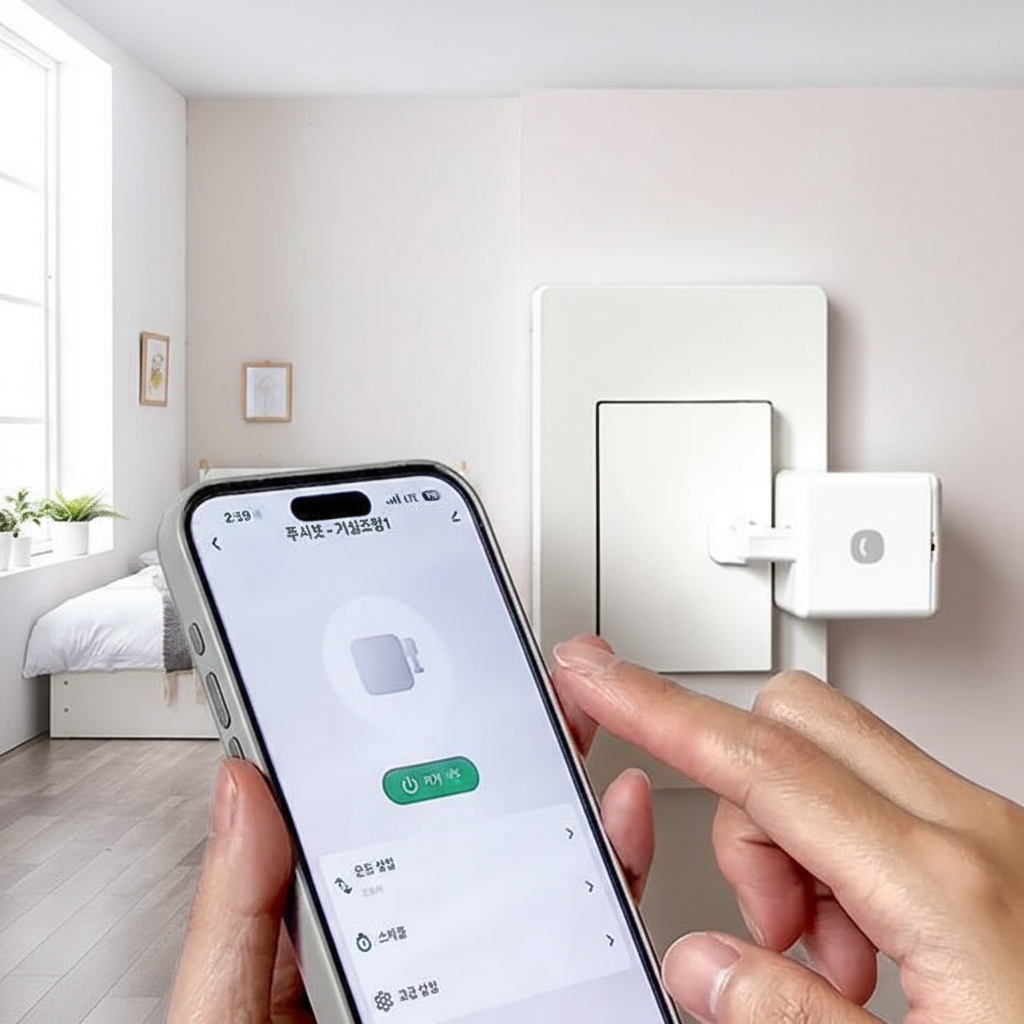
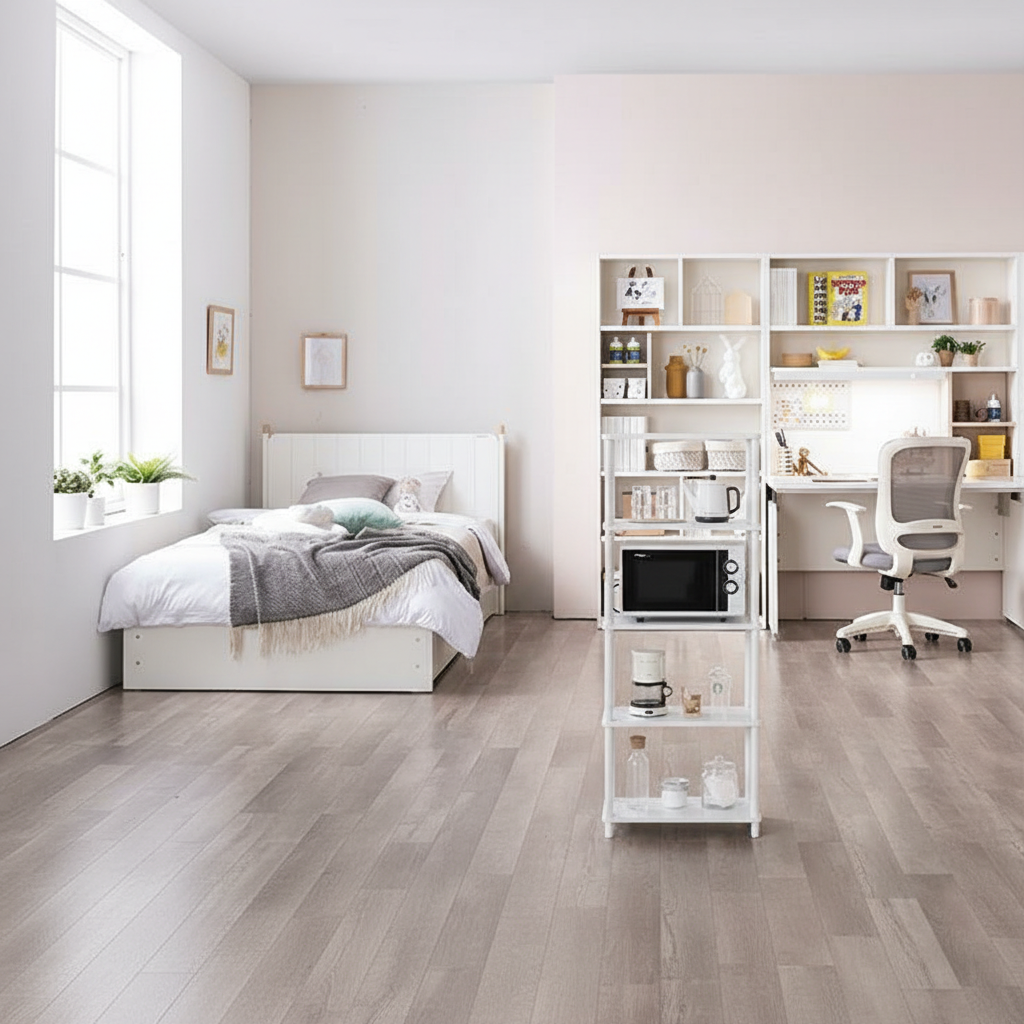
fine tuning

diff --git a/app/api/routes/ai_interior.py b/app/api/routes/ai_interior.py
@@ -25,6 +25,113 @@ import re
 router = APIRouter()
 
 
+def infer_product_placement_type(product_name: str) -> str:
+    """
+    상품명으로부터 배치 유형을 추론
+
+    Args:
+        product_name: 상품명
+
+    Returns:
+        "wall": 벽걸이/벽부착 상품
+        "floor": 바닥에 놓는 상품
+        "table": 테이블/가구 위에 올리는 상품
+        "any": 어디에나 가능
+    """
+    name_lower = product_name.lower()
+
+    # 벽걸이 키워드
+    wall_keywords = [
+        '벽걸이', '벽시계', '액자', '그림', '거울', '미러', '벽선반', '벽 선반',
+        '스위치', '벽등', '벽조명', '월', 'wall', '벽부착', '벽면',
+        '벽걸이형', '월클락', '월미러', '월선반'
+    ]
+
+    # 바닥 가구 키워드
+    floor_keywords = [
+        '책장', '옷장', '수납장', '책상', '테이블', '의자', '소파', '침대',
+        '서랍장', '행거', '옷걸이', '선반장', '캐비닛', '콘솔', '화분대',
+        '스탠드', '조명스탠드', '장롱', '붙박이', '수납박스', '바구니',
+        '가구', 'furniture', '3단', '4단', '5단', '다단', '다용도수납'
+    ]
+
+    # 탁상 소품 키워드
+    table_keywords = [
+        '탁상', '데스크', '미니', '소형', '컵', '홀더', '정리함', '펜꽂이',
+        '시계', '액자', '화분', '캔들', '향초', '디퓨저', '소품', '장식',
+        '오브제', '피규어', '인형', '쿠션', '쿠션커버'
+    ]
+
+    # 우선순위: 벽걸이 > 바닥 > 탁상
+    for keyword in wall_keywords:
+        if keyword in name_lower:
+            return "wall"
+
+    for keyword in floor_keywords:
+        if keyword in name_lower:
+            return "floor"
+
+    for keyword in table_keywords:
+        if keyword in name_lower:
+            return "table"
+
+    return "any"
+
+
+def calculate_spatial_suitability_score(
+    placement_surface: str,
+    product_placement_type: str
+) -> float:
+    """
+    공간 적합성 점수 계산
+
+    Args:
+        placement_surface: Gemini가 분석한 공간 유형 ("wall", "floor", "ceiling", "furniture_surface")
+        product_placement_type: 상품 배치 유형 ("wall", "floor", "table", "any")
+
+    Returns:
+        0.0 ~ 1.0 점수 (1.0 = 완벽히 적합, 0.0 = 전혀 부적합)
+    """
+    # 완벽한 매칭
+    perfect_match = {
+        ("wall", "wall"): 1.0,
+        ("floor", "floor"): 1.0,
+        ("furniture_surface", "table"): 1.0,
+    }
+
+    # 적절한 매칭
+    good_match = {
+        ("floor", "table"): 0.7,  # 바닥에 탁상 소품도 괜찮음 (작은 가구처럼)
+        ("furniture_surface", "any"): 0.8,
+    }
+
+    # 부적합한 매칭
+    poor_match = {
+        ("wall", "floor"): 0.1,  # 벽면에 바닥 가구 = 매우 부적합
+        ("wall", "table"): 0.3,  # 벽면에 탁상 소품 = 부적합 (벽선반이 아닌 이상)
+        ("floor", "wall"): 0.2,  # 바닥에 벽걸이 = 매우 부적합
+        ("ceiling", "floor"): 0.0,  # 천장에 바닥 가구 = 불가능
+        ("ceiling", "wall"): 0.0,  # 천장에 벽걸이 = 불가능
+    }
+
+    # any는 어디에나 가능
+    if product_placement_type == "any":
+        return 0.8
+
+    # 매칭 테이블에서 점수 찾기
+    key = (placement_surface, product_placement_type)
+
+    if key in perfect_match:
+        return perfect_match[key]
+    elif key in good_match:
+        return good_match[key]
+    elif key in poor_match:
+        return poor_match[key]
+    else:
+        # 정의되지 않은 조합은 중립
+        return 0.5
+
+
 def calculate_keyword_match_score(product_name: str, gemini_keywords: List[str]) -> float:
     """
     상품 이름과 Gemini 추천 키워드 간의 매칭 점수 계산
@@ -516,9 +623,12 @@ async def generate_ai_interior(
             method='weighted'
         )
 
-        # 10. Gemini 추천 키워드 기반 재순위화
+        # 10. Gemini 추천 키워드 + 공간 적합성 기반 재순위화
         gemini_keywords = gemini_result.get('recommendations', [])
+        placement_surface = gemini_result.get('placement_surface', 'floor')  # 공간 유형
+
         print(f"🔍 Gemini 키워드 매칭 중... (키워드: {gemini_keywords})")
+        print(f"📍 공간 유형: {placement_surface}")
 
         for product in ranked_products:
             # 키워드 매칭 점수 계산
@@ -527,17 +637,27 @@ async def generate_ai_interior(
                 gemini_keywords=gemini_keywords
             )
 
-            # 무드 점수와 키워드 점수 결합 (무드 60%, 키워드 40%)
+            # 공간 적합성 점수 계산
+            product_placement_type = infer_product_placement_type(product['name'])
+            spatial_score = calculate_spatial_suitability_score(
+                placement_surface=placement_surface,
+                product_placement_type=product_placement_type
+            )
+
+            # 무드 점수 + 키워드 점수 + 공간 적합성 점수 결합
+            # (무드 50%, 키워드 10%, 공간적합성 40%)
             mood_score = product['match_score']
-            combined_score = mood_score * 0.6 + keyword_score * 0.4
+            combined_score = mood_score * 0.5 + keyword_score * 0.1 + spatial_score * 0.4
 
             # 점수 업데이트
             product['keyword_match_score'] = keyword_score
+            product['spatial_suitability_score'] = spatial_score
+            product['product_placement_type'] = product_placement_type
             product['original_mood_score'] = mood_score
             product['match_score'] = combined_score
 
             print(f"   {product['name'][:50]}")
-            print(f"      무드: {mood_score:.3f} | 키워드: {keyword_score:.3f} | 최종: {combined_score:.3f}")
+            print(f"      무드: {mood_score:.3f} | 키워드: {keyword_score:.3f} | 공간: {spatial_score:.3f} ({product_placement_type}) | 최종: {combined_score:.3f}")
 
         # 최종 점수로 재정렬
         ranked_products.sort(key=lambda x: x['match_score'], reverse=True)
@@ -560,9 +680,11 @@ async def generate_ai_interior(
                 product_thumbnail_url=product.get('image_url', '')
             )
 
-            # match_details에 키워드 점수 추가
+            # match_details에 모든 점수 추가
             match_details = product['match_details'].copy()
             match_details['keyword_match_score'] = product['keyword_match_score']
+            match_details['spatial_suitability_score'] = product['spatial_suitability_score']
+            match_details['product_placement_type'] = product['product_placement_type']
             match_details['original_mood_score'] = product['original_mood_score']
 
             recommended_products_with_simulation.append({
@@ -591,7 +713,8 @@ async def generate_ai_interior(
                 'category': gemini_result['category'],
                 'confidence': gemini_result['confidence'],
                 'description': gemini_result['description'],
-                'gemini_recommendations': gemini_result['recommendations']
+                'gemini_recommendations': gemini_result['recommendations'],
+                'placement_surface': gemini_result.get('placement_surface', 'floor')
             },
             background_mood={
                 'primary_style': bg_style['primary_keyword'],

diff --git a/test_coordinate_verification.py b/test_coordinate_verification.py
@@ -1,0 +1,97 @@
+"""
+좌표 변환 검증 스크립트
+Frontend 좌표계 vs OpenCV 좌표계
+"""
+import cv2
+import numpy as np
+
+# 테스트 이미지
+image_path = "test_image2.png"
+
+# 사용자가 준 좌표 (Frontend 좌표계)
+x_relative = 0.7215782000661312
+y_relative = 0.44191157878357606
+radius_relative = 0.09512911389498678
+
+# 이미지 읽기
+img = cv2.imread(image_path)
+if img is None:
+    print(f"❌ 이미지를 읽을 수 없습니다: {image_path}")
+    exit(1)
+
+height, width = img.shape[:2]
+print(f"📐 이미지 크기: {width}x{height}")
+print()
+
+# 좌표 변환
+center_x = int(round(x_relative * width))
+center_y = int(round((1.0 - y_relative) * height))  # Y축 반전
+radius = int(round(radius_relative * width))
+
+print(f"📍 Frontend 좌표계 (왼쪽 아래가 원점):")
+print(f"   x = {x_relative:.4f} (왼쪽=0, 오른쪽=1)")
+print(f"   y = {y_relative:.4f} (아래=0, 위=1)")
+print(f"   r = {radius_relative:.4f}")
+print()
+
+print(f"🔄 OpenCV 좌표계로 변환 (왼쪽 위가 원점):")
+print(f"   center_x = {center_x}px (왼쪽에서 {center_x}px = {center_x/width*100:.1f}%)")
+print(f"   center_y = {center_y}px (위에서 {center_y}px = {center_y/height*100:.1f}%)")
+print(f"   radius = {radius}px")
+print()
+
+# Frontend 관점에서 y 위치 확인
+print(f"🧭 Frontend 관점:")
+print(f"   y={y_relative:.4f} → 아래에서 {y_relative*100:.1f}% 위치")
+print(f"   즉, 위에서는 {(1-y_relative)*100:.1f}% 위치")
+print()
+
+print(f"🧭 OpenCV 관점:")
+print(f"   center_y={center_y} → 위에서 {center_y}px = {center_y/height*100:.1f}%")
+print()
+
+# 시각화 1: OpenCV 좌표계
+img_opencv = img.copy()
+cv2.circle(img_opencv, (center_x, center_y), radius, (0, 255, 255), 3)
+cv2.circle(img_opencv, (center_x, center_y), 5, (0, 0, 255), -1)
+cv2.putText(img_opencv, f"OpenCV: ({center_x}, {center_y})",
+            (center_x + 10, center_y - 10),
+            cv2.FONT_HERSHEY_SIMPLEX, 0.6, (0, 0, 255), 2)
+cv2.imwrite("coordinate_check_opencv.png", img_opencv)
+print("✅ OpenCV 좌표계 시각화 저장: coordinate_check_opencv.png")
+
+# 시각화 2: 이미지에 격자 추가 (위치 파악용)
+img_grid = img.copy()
+# 수직선 (10% 간격)
+for i in range(11):
+    x = int(i * width / 10)
+    cv2.line(img_grid, (x, 0), (x, height), (200, 200, 200), 1)
+    cv2.putText(img_grid, f"{i*10}%", (x+5, 30),
+                cv2.FONT_HERSHEY_SIMPLEX, 0.5, (100, 100, 100), 1)
+
+# 수평선 (10% 간격)
+for i in range(11):
+    y = int(i * height / 10)
+    cv2.line(img_grid, (0, y), (width, y), (200, 200, 200), 1)
+    cv2.putText(img_grid, f"{i*10}%", (10, y-5),
+                cv2.FONT_HERSHEY_SIMPLEX, 0.5, (100, 100, 100), 1)
+
+# 동그라미 표시
+cv2.circle(img_grid, (center_x, center_y), radius, (0, 255, 255), 3)
+cv2.circle(img_grid, (center_x, center_y), 5, (0, 0, 255), -1)
+cv2.putText(img_grid, f"({center_x/width*100:.1f}%, {center_y/height*100:.1f}%)",
+            (center_x + 10, center_y - 10),
+            cv2.FONT_HERSHEY_SIMPLEX, 0.8, (0, 0, 255), 2)
+
+cv2.imwrite("coordinate_check_grid.png", img_grid)
+print("✅ 격자 시각화 저장: coordinate_check_grid.png")
+
+# 주요 위치 표시 (참고용)
+print()
+print("📌 주요 랜드마크 (대략적인 위치):")
+print("   - 안경 쓴 사람 그림: 왼쪽 중앙 벽 (~25%, ~40%)")
+print("   - 파란색 수납장: 오른쪽 중앙 (~70-80%, ~50-60%)")
+print("   - 핑크색 콘솔: 왼쪽 (~20%, ~40%)")
+print()
+print(f"👉 당신이 지정한 위치: ({center_x/width*100:.1f}%, {center_y/height*100:.1f}%)")
+print(f"   이것은 파란색 수납장 영역입니다." if 65 < center_x/width*100 < 85 else "")

diff --git a/app/core/gemini_analyzer.py b/app/core/gemini_analyzer.py
@@ -74,13 +74,24 @@ class GeminiAnalyzer:
 2. 이것은 '가구(furniture)' 카테고리인가요, 아니면 '인테리어 소품(prop)' 카테고리인가요?
 3. 확신도는 얼마나 되나요? (0.0~1.0)
 4. 이 공간에 어울리는 구체적인 아이템 3개를 추천해주세요.
+5. **중요**: 이 영역의 표면 유형은 무엇인가요? 정확히 분석해주세요:
+   - "wall": 벽면 (그림, 시계, 스위치, 벽걸이 선반 등이 부착되는 수직면)
+   - "floor": 바닥 (책장, 테이블, 의자, 화분 등이 놓이는 수평면)
+   - "ceiling": 천장 (조명, 선풍기 등이 부착되는 상부 수평면)
+   - "furniture_surface": 가구 표면 (테이블 위, 선반 위 등 기존 가구 위)
+
+   판단 기준:
+   - 벽면: 벽의 질감, 벽지, 페인트가 보이는 수직 공간
+   - 바닥: 바닥재(나무, 타일 등)가 보이거나 바닥에 가구를 놓을 수 있는 공간
+   - 가구 표면: 이미 책상, 선반, 수납장 등 가구가 있고 그 위에 소품을 올릴 수 있는 공간
 
 응답 형식:
 {
   "category": "furniture" or "prop",
   "confidence": 0.85,
   "description": "침대 옆 공간으로, 사이드 테이블이나 스탠드 조명이 적합합니다.",
-  "recommendations": ["우드 사이드 테이블", "미니멀 스탠드 조명", "작은 화분"]
+  "recommendations": ["우드 사이드 테이블", "미니멀 스탠드 조명", "작은 화분"],
+  "placement_surface": "floor" or "wall" or "ceiling" or "furniture_surface"
 }
 """
 
@@ -115,6 +126,13 @@ class GeminiAnalyzer:
         # 이미지 크기 기반 간단한 휴리스틱
         height, width = region_image.shape[:2]
         area = height * width
+        aspect_ratio = width / height if height > 0 else 1.0
+
+        # placement_surface 판단 (세로로 긴 영역은 벽일 가능성)
+        if aspect_ratio < 0.8:  # 세로로 긴 영역
+            placement_surface = "wall"
+        else:
+            placement_surface = "floor"
 
         # 큰 영역이면 가구, 작은 영역이면 소품으로 판단
         if area > 100000:  # 대략 300x300 이상
@@ -130,5 +148,6 @@ class GeminiAnalyzer:
             'category': category,
             'confidence': 0.75,
             'description': description,
-            'recommendations': recommendations[:3]
+            'recommendations': recommendations[:3],
+            'placement_surface': placement_surface
         }

diff --git a/test_specific_coordinate.py b/test_specific_coordinate.py
@@ -17,10 +17,10 @@ API_URL = "http://localhost:8000/api/ai-interior"
 # 테스트 이미지
 TEST_IMAGE = "test_image1.jpeg"
 
-# 테스트할 좌표
+# 테스트할 좌표 (바닥 중앙 영역)
 TEST_CIRCLE = {
-    "x": 0.3,
-    "y": 0.7,
+    "x": 0.5,
+    "y": 0.25,
     "radius": 0.1
 }
 
